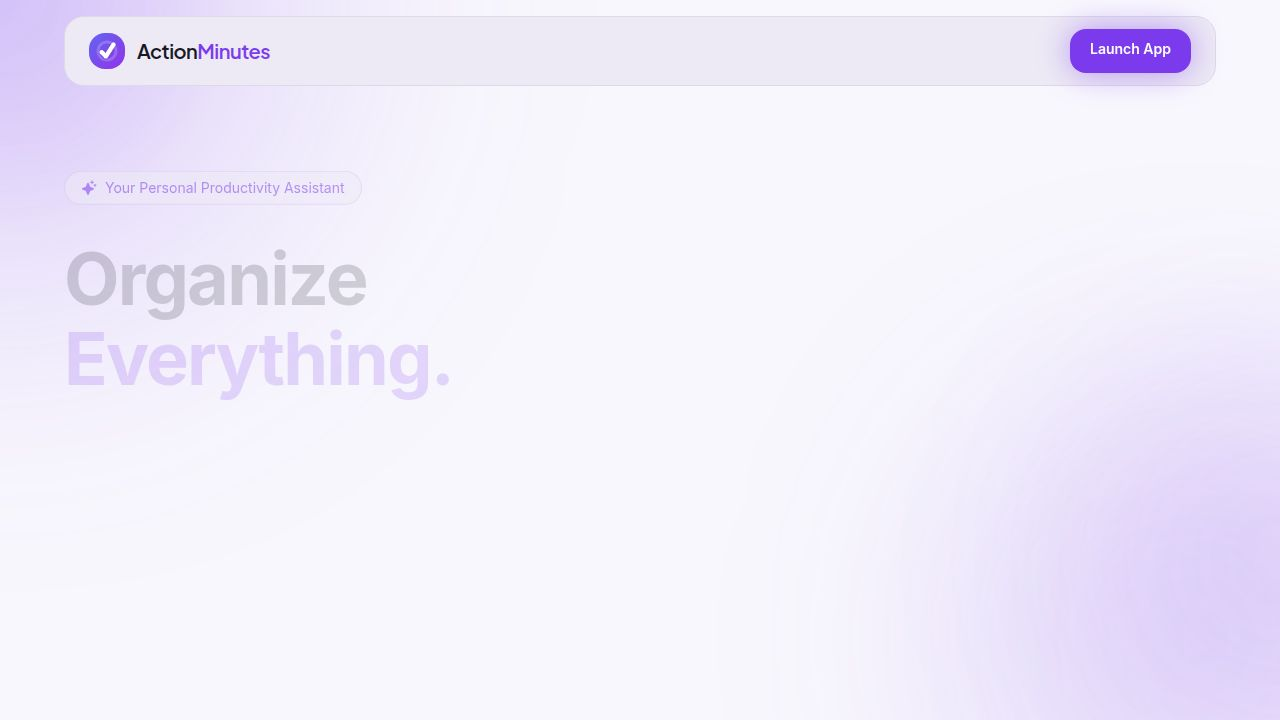
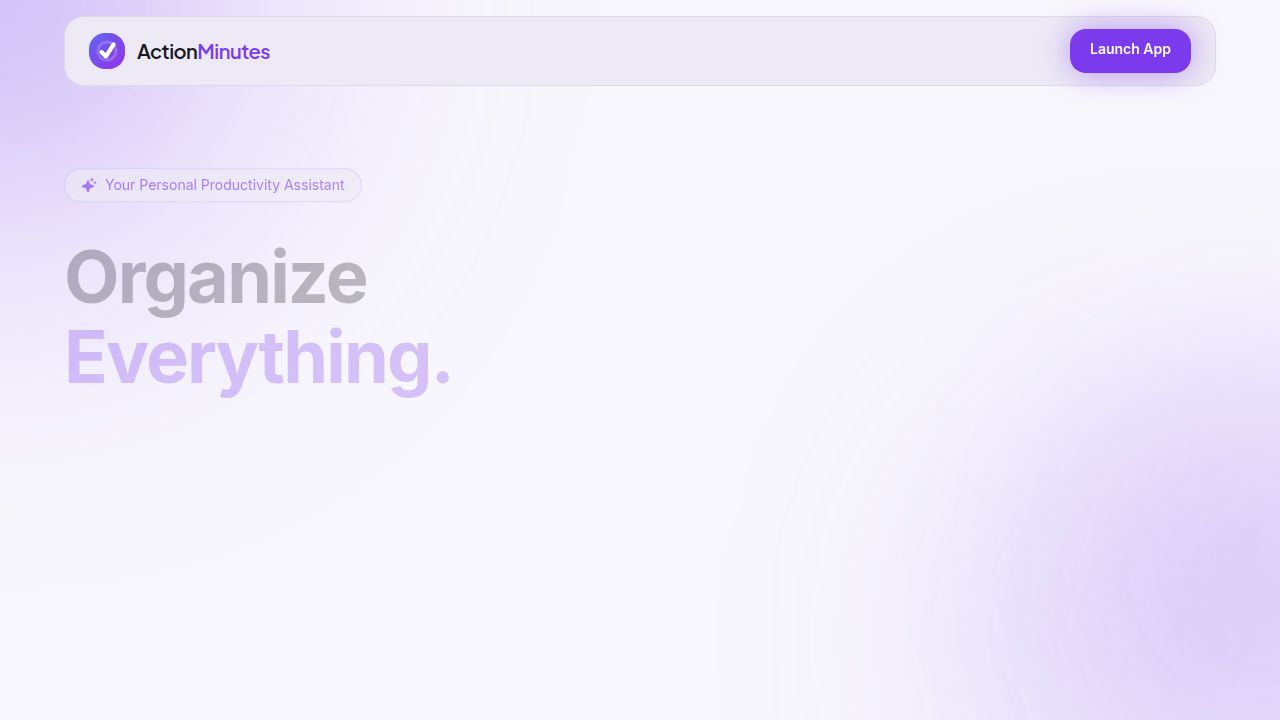
Update application theme and styling for consistency
Refactor CSS to use semantic tokens and improve theme application, addressing hardcoded colors and updating utility classes.

Replit-Commit-Author: Agent
Replit-Commit-Session-Id: 12f21fb4-9aff-40ae-84a5-1042cd0fa6a5
Replit-Commit-Checkpoint-Type: intermediate_checkpoint
Replit-Commit-Event-Id: d84640c9-080f-4e00-b5d3-d527f263d22f
Replit-Commit-Screenshot-Url: https://storage.googleapis.com/screenshot-production-us-central1/48fa1223-158c-4e16-9cc0-8b5f6e0d1f91/12f21fb4-9aff-40ae-84a5-1042cd0fa6a5/McqFhGI
Replit-Helium-Checkpoint-Created: true

diff --git a/client/src/index.css b/client/src/index.css
@@ -89,6 +89,10 @@
   --color-cyan-400: #22d3ee;
   --color-cyan-500: #06b6d4;
   
+  /* Status tokens – semantic colors for success/warning states */
+  --color-success: #16a34a;
+  --color-warning: #d97706;
+  
   /* Shadows – use shared tokens from themes.css */
   --shadow-soft: var(--shadow-1, 0 10px 24px rgba(0,0,0,0.10));
   --shadow-lift: var(--shadow-2, 0 18px 52px rgba(0,0,0,0.14));
@@ -190,16 +194,6 @@
     transition: background 0.3s ease, color 0.3s ease;
   }
   
-  /* Premium Page Titles – theme-aware */
-  h1.page-title,
-  .page-title {
-    @apply text-4xl font-black tracking-tight;
-    background: linear-gradient(135deg, var(--foreground) 0%, var(--primary) 100%);
-    -webkit-background-clip: text;
-    -webkit-text-fill-color: transparent;
-    background-clip: text;
-  }
-  
   /* Mobile touch target minimums */
   button, 
   [role="button"],
@@ -239,95 +233,6 @@
     backdrop-filter: blur(16px);
     -webkit-backdrop-filter: blur(16px);
     border: 1px solid color-mix(in srgb, var(--primary), transparent 80%);
-  }
-
-  /* Gradient Text – driven by theme tokens */
-  .text-gradient {
-    background-clip: text;
-    -webkit-background-clip: text;
-    -webkit-text-fill-color: transparent;
-    background-image: linear-gradient(135deg, var(--primary), var(--ring));
-  }
-
-  .text-gradient-light {
-    background-clip: text;
-    -webkit-background-clip: text;
-    -webkit-text-fill-color: transparent;
-    background-image: linear-gradient(135deg, var(--foreground) 0%, var(--primary) 100%);
-  }
-
-  /* Light Mode Text Color Overrides – semantic token fallbacks */
-  .light .text-white {
-    color: var(--foreground);
-  }
-  .light .text-white\/40 {
-    color: var(--muted-foreground);
-  }
-  .light .text-white\/50 {
-    color: var(--muted-foreground);
-  }
-  .light .text-white\/60 {
-    color: var(--foreground);
-  }
-  .light .text-white\/70 {
-    color: var(--foreground);
-  }
-  .light .text-white\/80 {
-    color: var(--foreground);
-  }
-  
-  .light .text-white\/90 {
-    color: var(--foreground);
-  }
-  
-  /* Light Mode Toggle/Tab Button Text */
-  .light .text-violet-300 {
-    color: var(--primary);
-  }
-  .light .text-violet-400 {
-    color: var(--primary);
-  }
-  
-  /* Light Mode Badge Colors */
-  .light .text-emerald-400 {
-    color: #059669;
-  }
-  .light .text-emerald-300 {
-    color: #10b981;
-  }
-  .light .text-sky-300 {
-    color: #0284c7;
-  }
-  .light .border-emerald-400\/50 {
-    border-color: rgba(5, 150, 105, 0.5);
-  }
-  
-  /* Light Mode Border Overrides */
-  .light .border-white\/10 {
-    border-color: var(--border);
-  }
-  .light .border-white\/20 {
-    border-color: var(--border);
-  }
-  
-  /* Light Mode Background Overrides */
-  .light .bg-white\/5 {
-    background-color: var(--secondary);
-  }
-  .light .placeholder\:text-white\/20::placeholder {
-    color: var(--muted-foreground);
-  }
-  .light .placeholder\:text-white\/30::placeholder {
-    color: var(--muted-foreground);
-  }
-  .light .placeholder\:text-white\/40::placeholder {
-    color: var(--muted-foreground);
-  }
-  .light .hover\:bg-white\/5:hover {
-    background-color: var(--secondary);
-  }
-  .light .hover\:bg-white\/10:hover {
-    background-color: var(--accent);
   }
 
   /* ========== BUTTON STYLES ========== */
@@ -511,7 +416,7 @@
     font-family: var(--font-logo);
   }
 
-  /* ========== STATUS PILLS – theme-aware primary ========== */
+  /* ========== STATUS PILLS – semantic token variants ========== */
   
   .pill-violet {
     background: color-mix(in srgb, var(--primary), transparent 80%);
@@ -519,29 +424,29 @@
     border: 1px solid color-mix(in srgb, var(--primary), transparent 70%);
   }
   .pill-fuchsia {
-    background: rgba(217, 70, 239, 0.2);
-    color: #f0abfc;
-    border: 1px solid rgba(217, 70, 239, 0.3);
+    background: color-mix(in srgb, var(--ring), transparent 80%);
+    color: var(--accent-foreground);
+    border: 1px solid color-mix(in srgb, var(--ring), transparent 70%);
   }
   .pill-green {
-    background: rgba(34, 197, 94, 0.2);
-    color: #86efac;
-    border: 1px solid rgba(34, 197, 94, 0.3);
+    background: color-mix(in srgb, var(--success), transparent 80%);
+    color: var(--success);
+    border: 1px solid color-mix(in srgb, var(--success), transparent 70%);
   }
   .pill-amber {
-    background: rgba(245, 158, 11, 0.2);
-    color: #fcd34d;
-    border: 1px solid rgba(245, 158, 11, 0.3);
+    background: color-mix(in srgb, var(--warning), transparent 80%);
+    color: var(--warning);
+    border: 1px solid color-mix(in srgb, var(--warning), transparent 70%);
   }
   .pill-red {
-    background: rgba(239, 68, 68, 0.2);
-    color: #fca5a5;
-    border: 1px solid rgba(239, 68, 68, 0.3);
+    background: color-mix(in srgb, var(--destructive), transparent 80%);
+    color: var(--destructive);
+    border: 1px solid color-mix(in srgb, var(--destructive), transparent 70%);
   }
   .pill-cyan {
-    background: rgba(6, 182, 212, 0.2);
-    color: #67e8f9;
-    border: 1px solid rgba(6, 182, 212, 0.3);
+    background: color-mix(in srgb, var(--chart-3, #06b6d4), transparent 80%);
+    color: var(--accent-foreground);
+    border: 1px solid color-mix(in srgb, var(--chart-3, #06b6d4), transparent 70%);
   }
 
   /* ========== BORDERS ========== */

diff --git a/client/src/theme/themes.css b/client/src/theme/themes.css
@@ -4,10 +4,18 @@
    Selector: html[data-theme="X"] (dark default) / html[data-theme="X"].light
    ============================================================ */
 
-/* ─── Shared shadow tokens ─── */
+/* ─── Shared tokens ─── */
 html[data-theme] {
   --shadow-1: 0 10px 24px rgba(0,0,0,0.10);
   --shadow-2: 0 18px 52px rgba(0,0,0,0.14);
+  --success: hsl(142, 71%, 35%);
+  --success-foreground: hsl(0, 0%, 100%);
+  --warning: hsl(32, 95%, 44%);
+  --warning-foreground: hsl(0, 0%, 100%);
+}
+html[data-theme]:not(.light) {
+  --success: hsl(142, 71%, 45%);
+  --warning: hsl(38, 92%, 50%);
 }
 
 /* ─── Per-theme font families ─── */
@@ -499,18 +507,6 @@ html[data-theme="terminal"].light body {
 .shadow-token  { box-shadow: var(--shadow-1); }
 .shadow-token-2{ box-shadow: var(--shadow-2); }
 
-/* Gradient text */
-html[data-theme] .text-gradient {
-  background-image: linear-gradient(135deg, var(--theme-gradient-start), var(--theme-gradient-end));
-}
-
-html[data-theme] .text-gradient-light {
-  background-image: linear-gradient(135deg, #ffffff 0%, var(--theme-gradient-start) 100%);
-}
-
-html[data-theme].light .text-gradient-light {
-  background-image: linear-gradient(135deg, var(--theme-gradient-end) 0%, var(--theme-gradient-start) 100%);
-}
 
 /* Button glow */
 html[data-theme] .btn-gradient {
@@ -563,21 +559,6 @@ html[data-theme] ::-webkit-scrollbar-thumb:hover {
   background: color-mix(in srgb, var(--primary), transparent 70%);
 }
 
-/* Page title */
-html[data-theme] h1.page-title,
-html[data-theme] .page-title {
-  background: linear-gradient(135deg, #ffffff 0%, var(--theme-gradient-start) 50%, var(--primary) 100%);
-  -webkit-background-clip: text;
-  -webkit-text-fill-color: transparent;
-  background-clip: text;
-}
-html[data-theme].light h1.page-title,
-html[data-theme].light .page-title {
-  background: linear-gradient(135deg, var(--foreground) 0%, var(--theme-gradient-start) 50%, var(--primary) 100%);
-  -webkit-background-clip: text;
-  -webkit-text-fill-color: transparent;
-  background-clip: text;
-}
 
 /* Pill */
 html[data-theme] .pill-violet {

diff --git a/client/src/components/logo.tsx b/client/src/components/logo.tsx
@@ -22,8 +22,9 @@ export function Logo({ variant = 'squircle', size = 32, className = '', theme = 
     const cx = w / 2;
     const cy = h / 2;
 
-    const bgColor = theme === 'dark' ? '#818cf8' : '#6366f1';
-    const iconColor = theme === 'dark' ? '#0f172a' : '#ffffff';
+    const computedStyle = getComputedStyle(document.documentElement);
+    const bgColor = computedStyle.getPropertyValue('--primary').trim() || (theme === 'dark' ? '#818cf8' : '#6366f1');
+    const iconColor = computedStyle.getPropertyValue('--primary-foreground').trim() || (theme === 'dark' ? '#0f172a' : '#ffffff');
 
     ctx.clearRect(0, 0, w, h);
 

diff --git a/client/src/components/ui/button.tsx b/client/src/components/ui/button.tsx
@@ -12,7 +12,7 @@ const buttonVariants = cva(
         default:
           "btn-gradient text-primary-foreground font-semibold",
         destructive:
-          "bg-red-500/20 text-red-400 border border-red-500/30 hover:bg-red-500/30",
+          "bg-destructive/15 text-destructive border border-destructive/25 hover:bg-destructive/25",
         outline:
           "border border-border bg-secondary backdrop-blur-sm hover:bg-accent hover:border-border text-secondary-foreground",
         secondary:

diff --git a/client/src/components/ui/card.tsx b/client/src/components/ui/card.tsx
@@ -9,7 +9,7 @@ const Card = React.forwardRef<
   <div
     ref={ref}
     className={cn(
-      "rounded-2xl glass-panel text-card-foreground transition-all duration-300 ease-out",
+      "rounded-2xl glass-panel text-card-foreground shadow-token transition-all duration-300 ease-out",
       "md:hover:bg-accent md:hover:border-primary/20 md:hover:-translate-y-0.5",
       "active:scale-[0.99]",
       className
